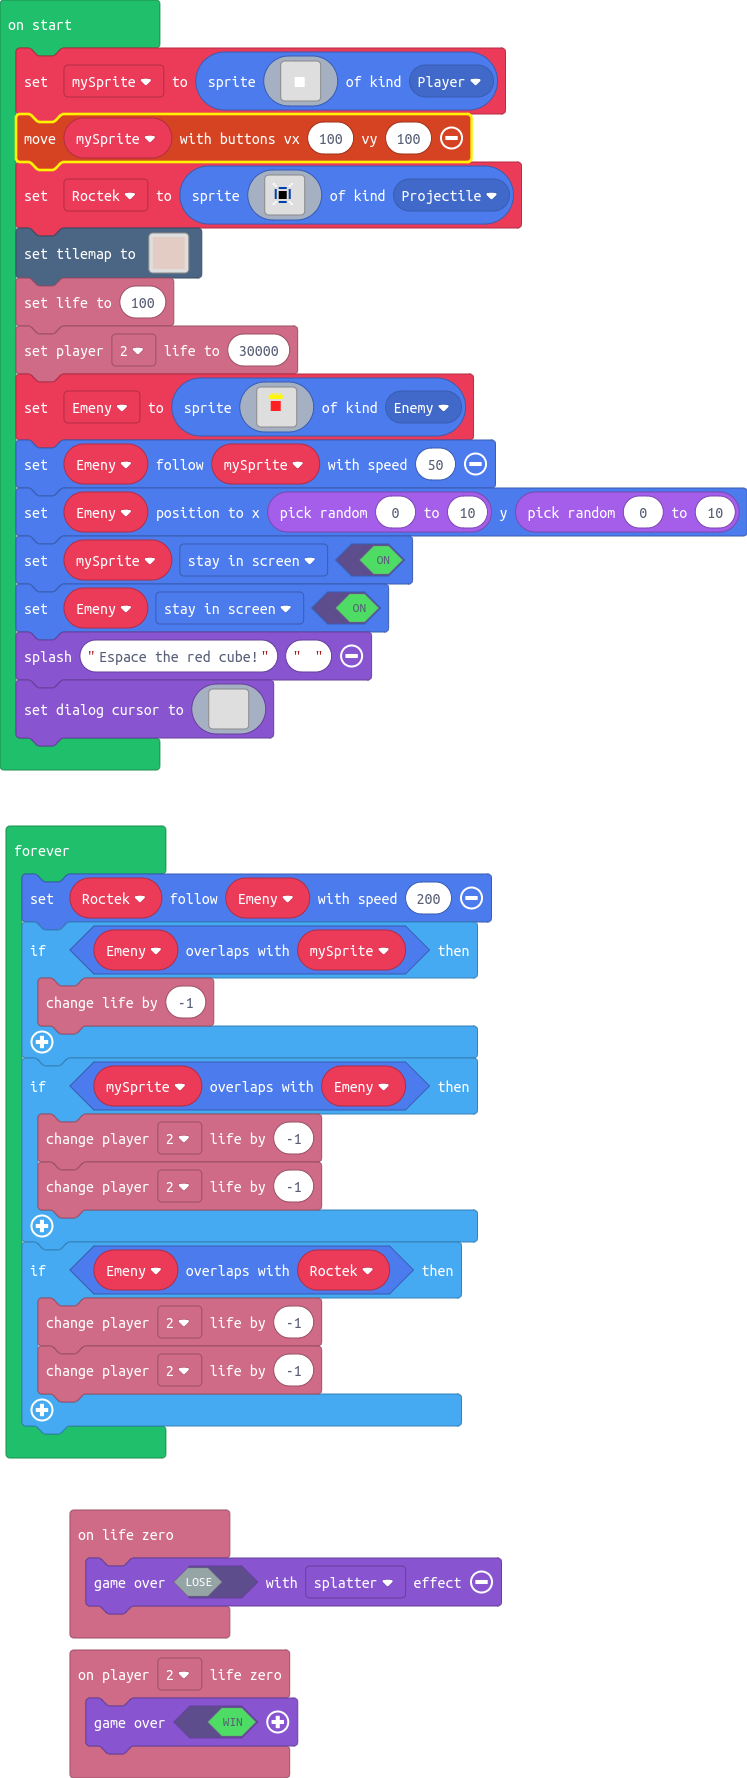
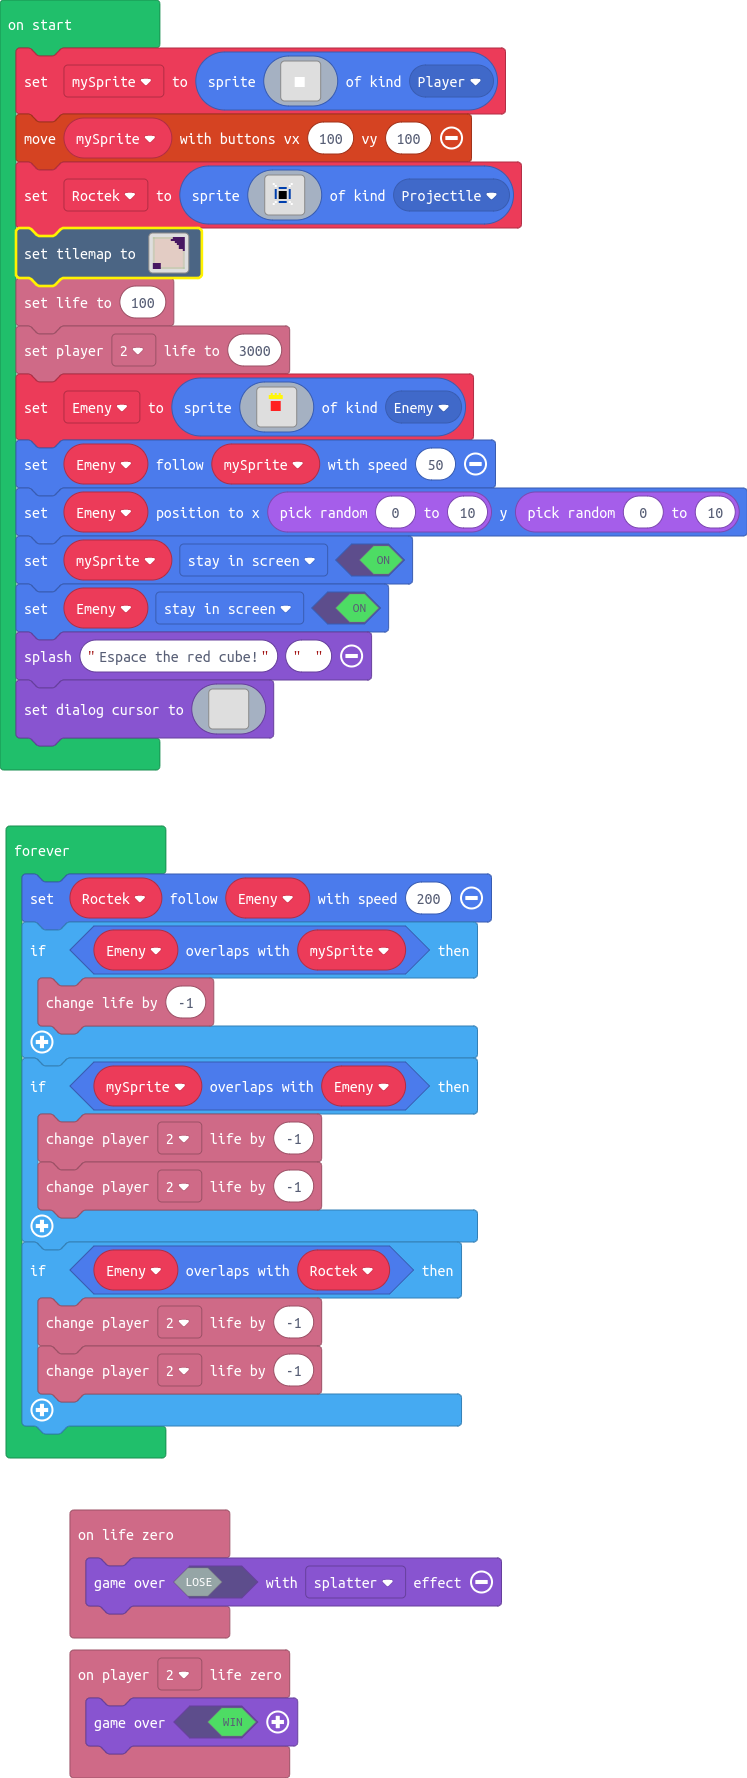
Pacth V1.0.12a New map!

diff --git a/main.ts b/main.ts
@@ -21,6 +21,44 @@ namespace myTiles {
 . . . . . . . . . . . . . . . . 
 . . . . . . . . . . . . . . . . 
 `
+    //% blockIdentity=images._tile
+    export const tile1 = img`
+a a a a a a a a f f f f f f f f 
+a a a a a a a a f f f f f f f f 
+a a a a a a a a f f f f f f f f 
+a a a a a a a a f f f f f f f f 
+a a a a a a a a f f f f f f f f 
+a a a a a a a a f f f f f f f f 
+a a a a a a a a f f f f f f f f 
+a a a a a a a a f f f f f f f f 
+f f f f f f f f a a a a a a a a 
+f f f f f f f f a a a a a a a a 
+f f f f f f f f a a a a a a a a 
+f f f f f f f f a a a a a a a a 
+f f f f f f f f a a a a a a a a 
+f f f f f f f f a a a a a a a a 
+f f f f f f f f a a a a a a a a 
+f f f f f f f f a a a a a a a a 
+`
+    //% blockIdentity=images._tile
+    export const tile3 = img`
+7 7 7 7 7 7 7 7 7 7 7 7 7 7 7 7 
+7 7 7 7 7 7 7 7 7 7 7 7 7 7 7 7 
+7 7 7 7 7 7 7 7 7 7 7 7 7 7 7 7 
+7 7 7 7 7 7 7 7 7 7 7 7 7 7 7 7 
+7 7 7 7 7 7 7 7 7 7 7 7 7 7 7 7 
+7 7 7 7 7 7 7 7 7 7 7 7 7 7 7 7 
+7 7 7 7 7 7 7 7 7 7 7 7 7 7 7 7 
+7 7 7 5 7 5 7 5 7 5 7 5 7 7 7 7 
+7 7 7 5 5 5 5 5 5 5 5 5 7 7 7 7 
+7 7 7 4 5 5 5 5 5 5 5 5 7 7 7 7 
+7 7 7 4 4 4 5 5 5 5 5 5 7 7 7 7 
+7 7 7 7 7 7 7 7 7 7 7 7 7 7 7 7 
+7 7 7 7 7 7 7 7 7 7 7 7 7 7 7 7 
+7 7 7 7 7 7 7 7 7 7 7 7 7 7 7 7 
+7 7 7 7 7 7 7 7 7 7 7 7 7 7 7 7 
+7 7 7 7 7 7 7 7 7 7 7 7 7 7 7 7 
+`
 }
 info.player2.onLifeZero(function () {
     game.over(true)
@@ -66,7 +104,7 @@ let Roctek = sprites.create(img`
 . . . . . . . . . . . . . . . . 
 `, SpriteKind.Projectile)
 tiles.setTilemap(tiles.createTilemap(
-            hex`1000100001010101010101010101010101010101010101010101010101010101010101010101010101010101010101010101010101010101010101010101010101010101010101010101010101010101010101010101010101010101010101010101010101010101010101010101010101010101010101010101010101010101010101010101010101010101010101010101010101010101010101010101010101010101010101010101010101010101010101010101010101010101010101010101010101010101010101010101010101010101010101010101010101010101010101010101010101010101010101010101010101010101010101010101010101010101`,
+            hex`1000100002070707070707070707131313131313060101010101010101131313131313130601010101010101010101131313131306010101010101010101010113131313060101010101010101010101011313130601010101010101010101010113131306010101010101010101010101010113060101010101010101010101010101080601010101010101010101010101010806010101010101010101010101010108060101010101010101010101010101080601010101010101010101010101010806010101010101010101010101010108131313130101010101010101010101081313131301010101010101010101010813131313090909090909090909090905`,
             img`
 . . . . . . . . . . . . . . . . 
 . . . . . . . . . . . . . . . . 
@@ -85,11 +123,11 @@ tiles.setTilemap(tiles.createTilemap(
 . . . . . . . . . . . . . . . . 
 . . . . . . . . . . . . . . . . 
 `,
-            [myTiles.tile0,sprites.castle.tilePath5],
+            [myTiles.tile0,sprites.castle.tilePath5,sprites.castle.tilePath1,sprites.castle.tilePath3,sprites.castle.tilePath7,sprites.castle.tilePath9,sprites.castle.tilePath4,sprites.castle.tilePath2,sprites.castle.tilePath6,sprites.castle.tilePath8,sprites.builtin.forestTiles13,sprites.builtin.forestTiles5,sprites.builtin.forestTiles7,sprites.builtin.forestTiles14,sprites.builtin.forestTiles15,sprites.builtin.forestTiles3,sprites.builtin.forestTiles2,sprites.builtin.forestTiles4,sprites.builtin.forestTiles20,myTiles.tile1,myTiles.tile3],
             TileScale.Sixteen
         ))
 info.setLife(100)
-info.player2.setLife(30000)
+info.player2.setLife(3000)
 let Emeny = sprites.create(img`
 . . . . . . . . . . . . . . . . 
 . . . . . 5 . 5 . 5 . . . . . . 
